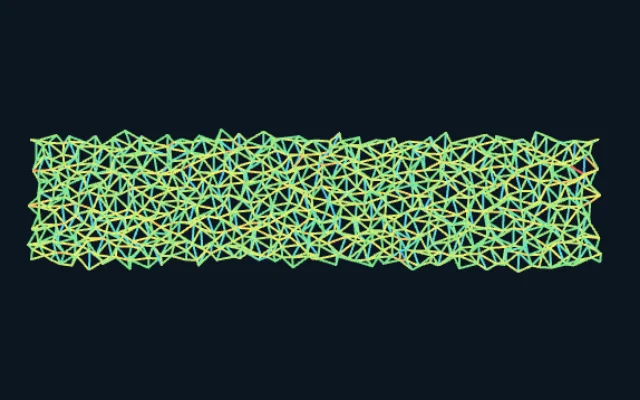
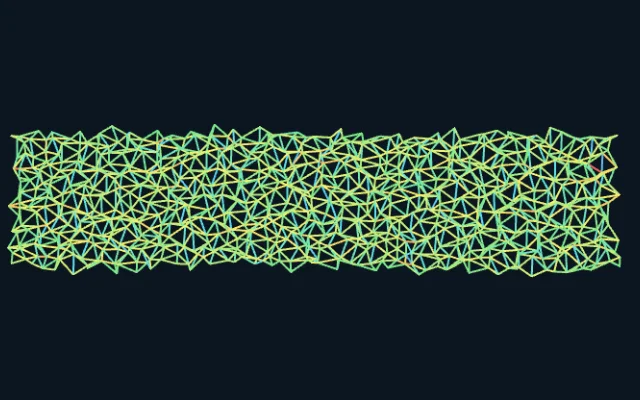
research gallery: spring-network thumbnail from the shared scripts/research-thumbs.mjs (own script removed)

Changed region(s): [[0.0, 0.3, 0.9688, 0.69]]

diff --git a/web/src/components/research/grossman2026/SpringsPage.svelte b/web/src/components/research/grossman2026/SpringsPage.svelte
@@ -119,7 +119,7 @@
   let pane: HTMLElement;
   onMount(() => {
     // Deep links: #edit opens the editor tab; ?eta=… (foam) sets the disorder and skips the sweep
-    // (also how the gallery thumbnail is rendered, see scripts/research-thumbs-grossman.mjs).
+    // (also how the gallery thumbnail is rendered: scripts/research-thumbs.mjs with thumbnailQuery).
     const q = new URLSearchParams(window.location.search);
     const qEta = Number(q.get('eta'));
     const deepLinked = q.has('eta') && Number.isFinite(qEta) && qEta >= 0 && qEta <= 0.5;
